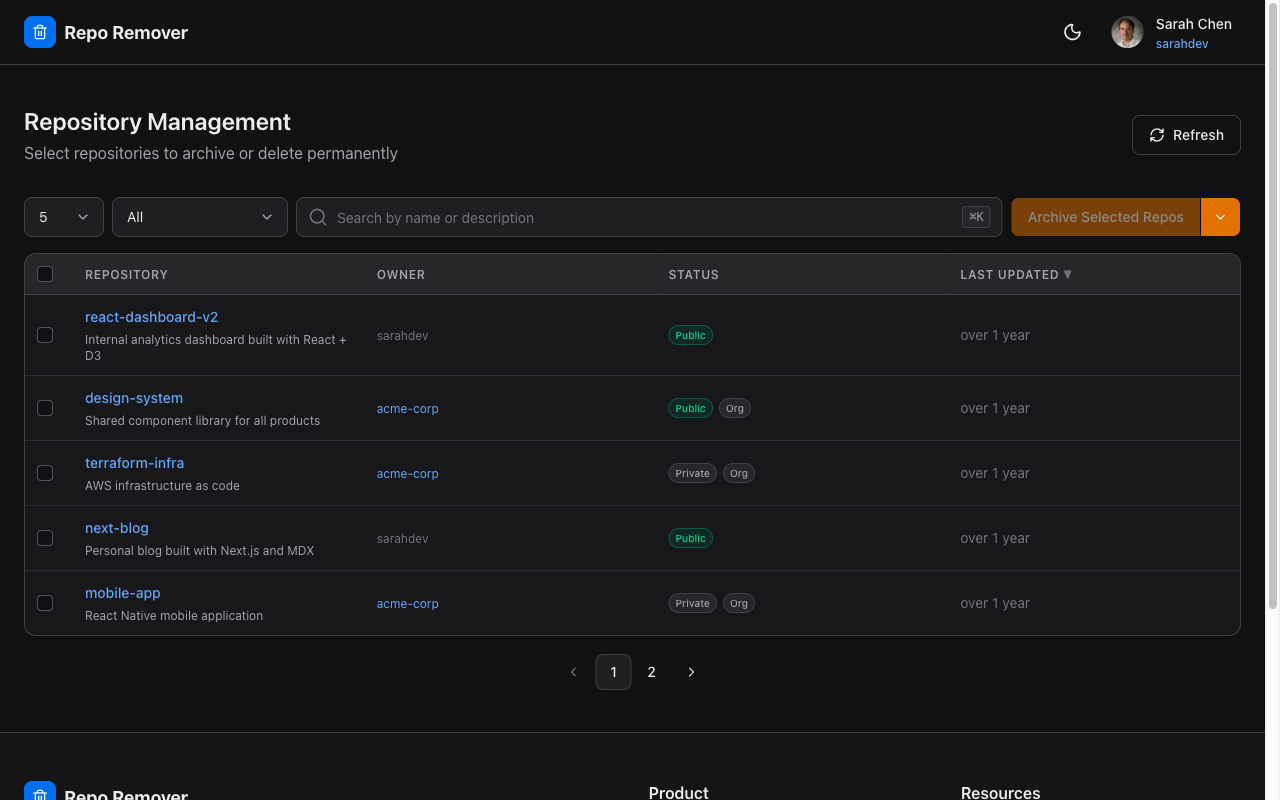
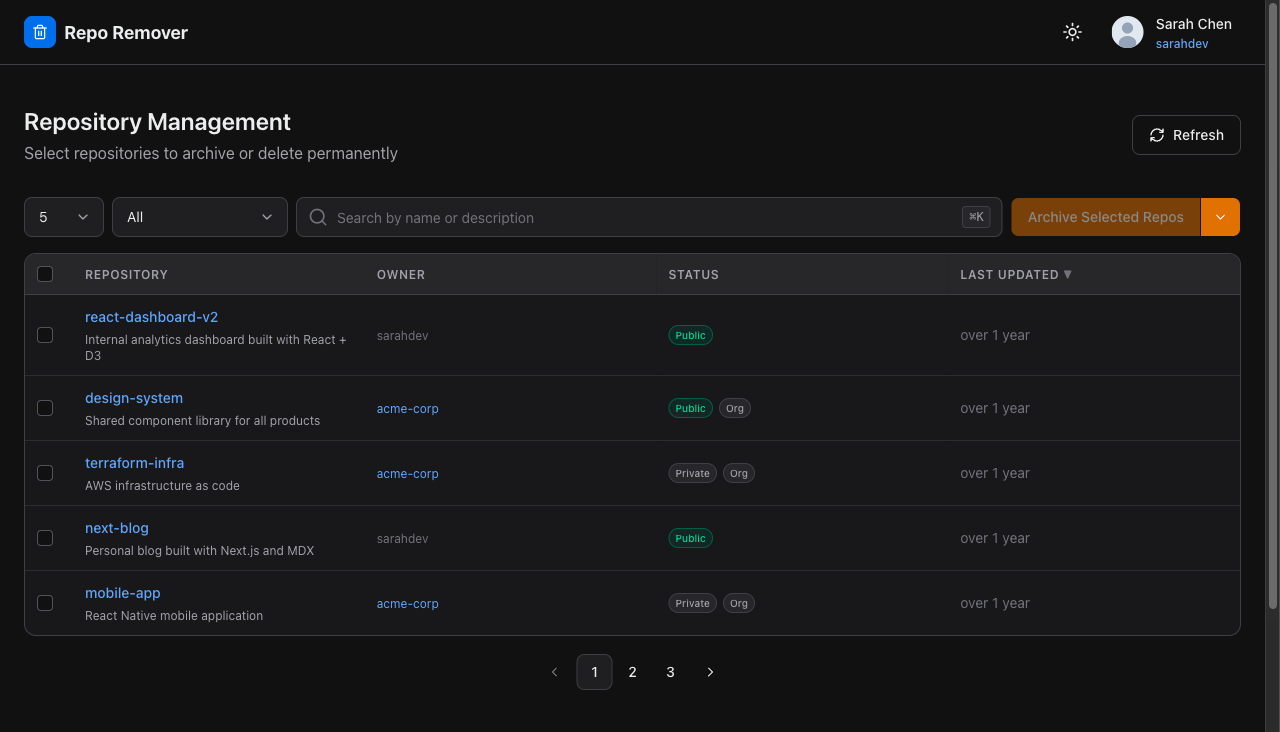
fix: retake screenshots, narrow checkbox col, shorten Updated header
- Retake all 4 dashboard screenshots: placeholder avatar, no footer,
  more repo variety (fork, archived, org), 3 pages of pagination
- Narrow checkbox column on mobile (w-8 + px-1.5)
- Shorten "Last Updated" to "Updated" on mobile
- Disable table horizontal scroll (overflow-x-hidden)

diff --git a/src/components/repo-table/repo-table.tsx b/src/components/repo-table/repo-table.tsx
@@ -268,7 +268,10 @@ export default function RepoTable({
           <TableHeader>
             <TableRow className="bg-default-100 border-b border-divider">
               {/* Checkbox column */}
-              <TableHead className="w-12 px-3 py-3" scope="col">
+              <TableHead
+                className="w-8 sm:w-12 px-1.5 sm:px-3 py-3"
+                scope="col"
+              >
                 <Checkbox
                   aria-label="Select all"
                   checked={allSelectableSelected && selectableRepos.length > 0}
@@ -321,7 +324,8 @@ export default function RepoTable({
                 scope="col"
               >
                 <span className="inline-flex items-center gap-1">
-                  Last Updated
+                  <span className="sm:hidden">Updated</span>
+                  <span className="hidden sm:inline">Last Updated</span>
                   {sortDescriptor.column === "updatedAt" && (
                     <span className="text-default-400">
                       {sortDescriptor.direction === "ascending"
@@ -362,7 +366,7 @@ export default function RepoTable({
                     key={repo.id}
                   >
                     {/* Checkbox */}
-                    <TableCell className="w-12 px-3 py-3">
+                    <TableCell className="w-8 sm:w-12 px-1.5 sm:px-3 py-3">
                       <Checkbox
                         aria-label={repo.name}
                         checked={isSelected && !disabled}

diff --git a/src/components/ui/table.tsx b/src/components/ui/table.tsx
@@ -6,7 +6,7 @@ function Table({ className, ...props }: React.ComponentProps<"table">) {
   return (
     <div
       data-slot="table-container"
-      className="relative w-full overflow-x-auto"
+      className="relative w-full overflow-x-hidden"
     >
       <table
         data-slot="table"
